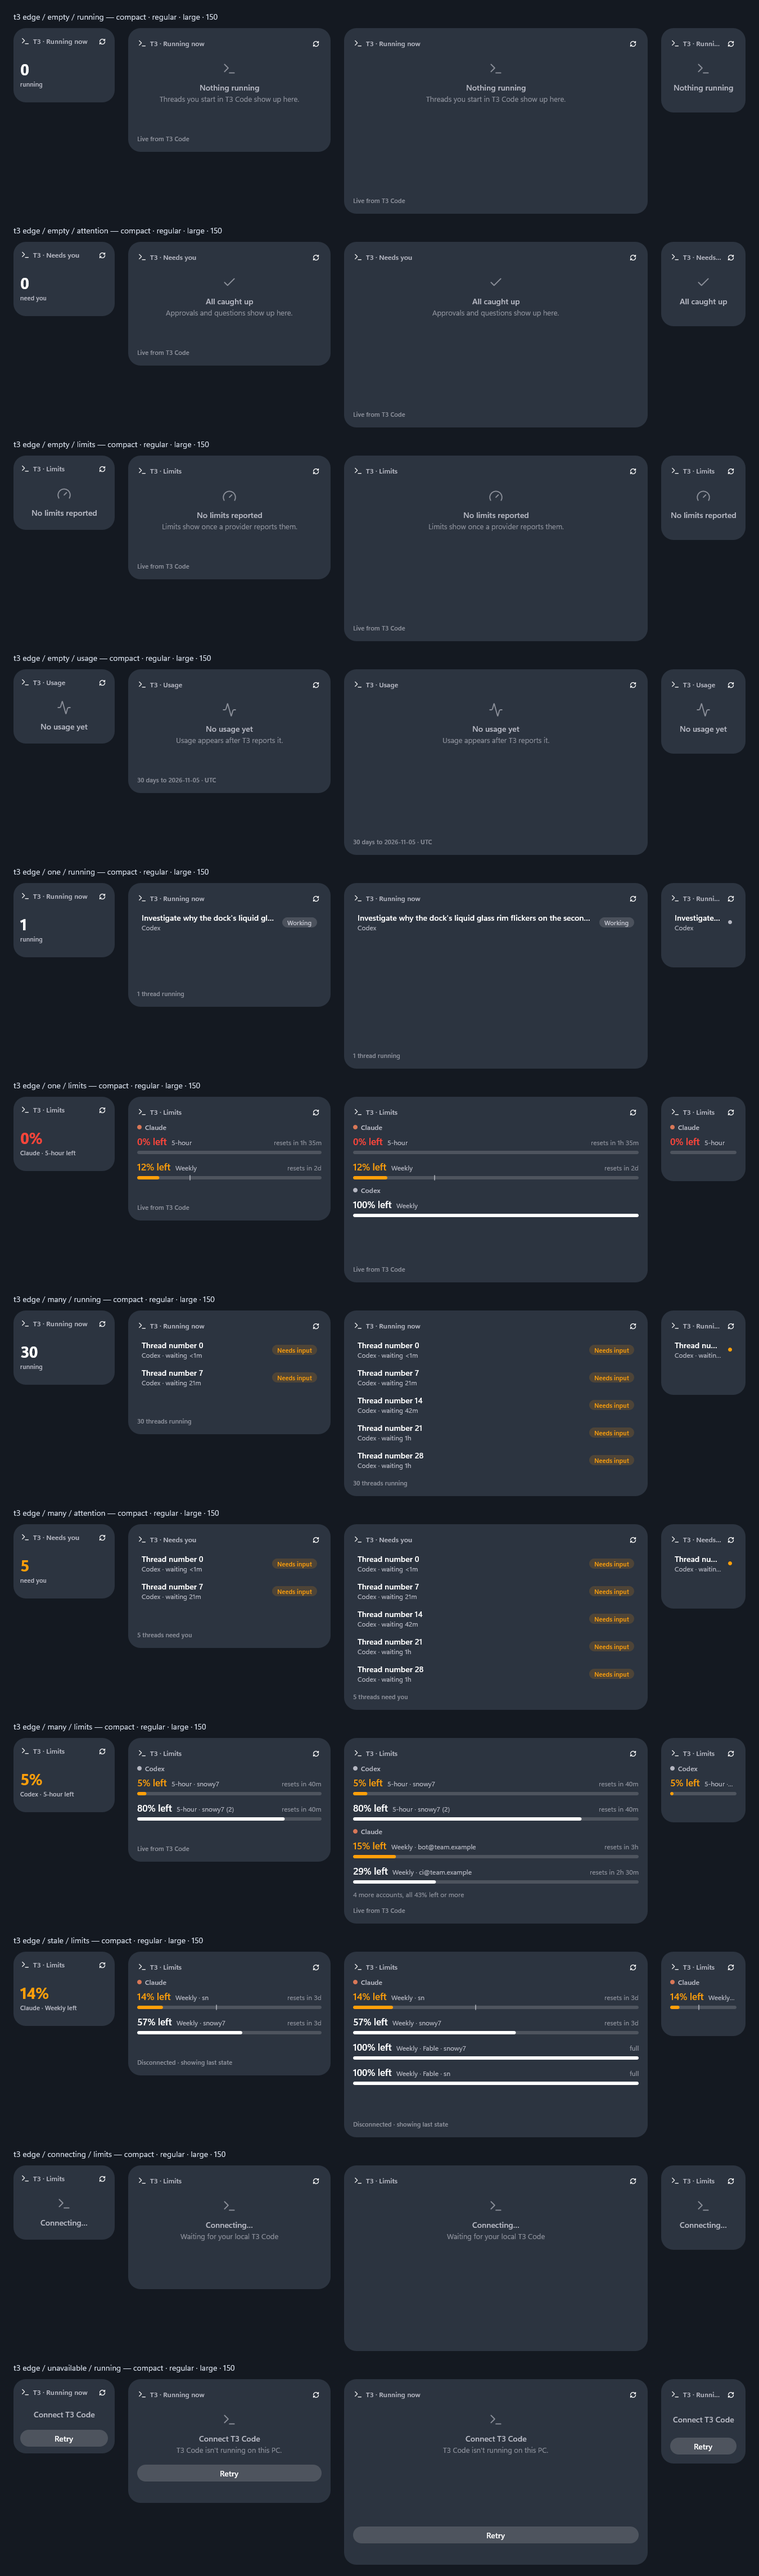
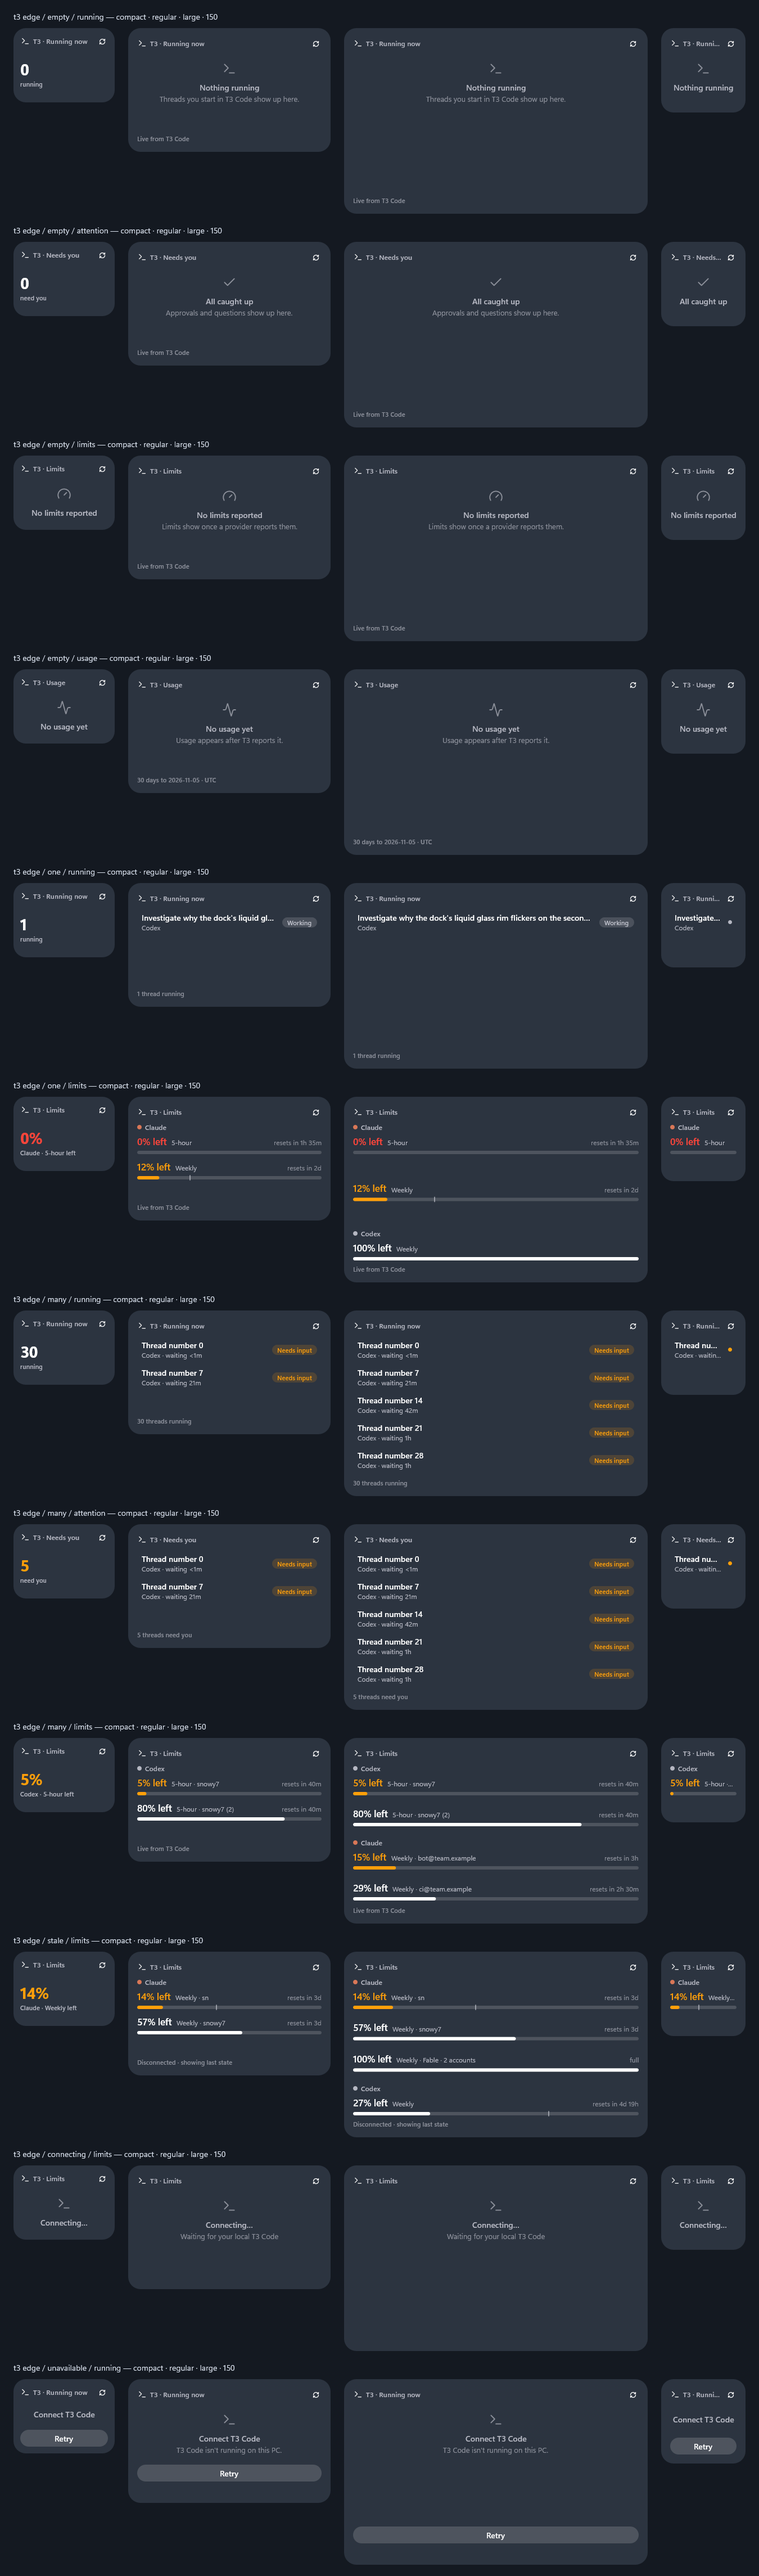
feat(t3): readable model names (claude-opus-5-5 -> Opus 5.5), large Limits spread over the tile, a window every account reads the same collapses to one row

diff --git a/plugins/t3/src/faces.rs b/plugins/t3/src/faces.rs
@@ -87,14 +87,45 @@ fn provider_name(provider: &str) -> &str {
     }
 }
 
+/// A model slug as people say it: `claude-opus-5-5` → `Opus 5.5`, `gpt-6.1-sol` → `GPT-6.1 Sol`.
+/// Names that are already readable (spaces, capitals) pass through.
+fn model_name(slug: &str) -> String {
+    if slug.contains(' ') || slug.chars().any(char::is_uppercase) {
+        return slug.into();
+    }
+    let rest = slug.strip_prefix("claude-").unwrap_or(slug);
+    let mut words: Vec<String> = Vec::new();
+    for part in rest.split('-').filter(|p| !p.is_empty() && !(p.len() >= 8 && p.chars().all(|c| c.is_ascii_digit()))) {
+        match words.last_mut() {
+            // Version digits join with dots: 5-5 → 5.5.
+            Some(last) if part.chars().all(|c| c.is_ascii_digit()) && last.chars().last().is_some_and(|c| c.is_ascii_digit()) => {
+                last.push('.');
+                last.push_str(part);
+            }
+            _ if part == "gpt" => words.push("GPT".into()),
+            _ => {
+                let mut chars = part.chars();
+                words.push(chars.next().map(|c| c.to_uppercase().chain(chars).collect()).unwrap_or_default());
+            }
+        }
+    }
+    // `GPT` and its version read as one word.
+    match words.as_slice() {
+        [first, version, ..] if first == "GPT" && version.starts_with(|c: char| c.is_ascii_digit()) => {
+            format!("GPT-{}", words[1..].join(" "))
+        }
+        _ => words.join(" "),
+    }
+}
+
 /// The quiet second line: model · how long, each part only when T3 knows it.
 fn detail(state: &State, thread: &Thread, agents: usize, now_ms: i64) -> Option<String> {
     let model = state
         .details
         .get(&thread.id)
-        .map(|d| d.model.as_str())
+        .map(|d| model_name(&d.model))
         .filter(|m| !m.is_empty())
-        .or_else(|| Some(provider_name(&thread.provider_instance_id)).filter(|p| !p.is_empty()));
+        .or_else(|| Some(provider_name(&thread.provider_instance_id).to_owned()).filter(|p| !p.is_empty()));
     let time = epoch_ms(&thread.updated_at).map(|at| {
         let span = ago(now_ms, at);
         if thread.attention() {
@@ -106,7 +137,7 @@ fn detail(state: &State, thread: &Thread, agents: usize, now_ms: i64) -> Option<
         }
     });
     let agents = (agents > 0).then(|| plural(agents, "agent"));
-    let parts: Vec<String> = [model.map(str::to_owned), time, agents].into_iter().flatten().collect();
+    let parts: Vec<String> = [model, time, agents].into_iter().flatten().collect();
     (!parts.is_empty()).then(|| parts.join(" · "))
 }
 
@@ -374,6 +405,11 @@ fn limits(state: &State, size: SizeClass, now_ms: i64) -> View {
         let first = rows.len();
         for (window, accounts) in windows {
             let window = if window.trim().is_empty() { "Limit" } else { window };
+            // Every account at the same reading: one row says it for all of them.
+            if accounts.len() > 1 && accounts.iter().all(|a| a.used_permille == accounts[0].used_permille && a.resets_at == accounts[0].resets_at) {
+                rows.push(meter(accounts[0], format!("{window} · {} accounts", accounts.len()), now_ms));
+                continue;
+            }
             let names = account_names(accounts);
             let mut shown: Vec<(&Limit, String)> = accounts.iter().copied().zip(names).collect();
             // Tightest first when there are several, so a summary hides only the roomy ones.
@@ -395,6 +431,12 @@ fn limits(state: &State, size: SizeClass, now_ms: i64) -> View {
         // The header travels with its first row: a short tile never ends on a bare name.
         let lead = rows.remove(first);
         rows.insert(first, View::Stack { children: vec![header, lead], gap: Some(6.0) });
+    }
+    // Large tiles spread the meters over their height (macOS's large widgets) instead of
+    // leaving the bottom empty; the spacers shrink to nothing when the rows fill it.
+    if size == SizeClass::Large && rows.len() > 2 {
+        rows = rows.into_iter().flat_map(|row| [row, View::Spacer]).collect();
+        rows.pop();
     }
     View::List { children: rows, gap: Some(10.0) }
 }
@@ -519,4 +561,17 @@ fn composer(state: &State, size: SizeClass, pick: &Pick) -> View {
     }
     children.push(View::Spacer);
     View::Stack { children, gap: Some(8.0) }
+}
+
+#[test]
+fn model_slugs_read_as_names() {
+    for (slug, name) in [
+        ("claude-opus-5-5", "Opus 5.5"),
+        ("claude-sonnet-5-5-20260101", "Sonnet 5.5"),
+        ("gpt-6.1-sol", "GPT-6.1 Sol"),
+        ("GPT-6.1 Sol", "GPT-6.1 Sol"),
+        ("o3", "O3"),
+    ] {
+        assert_eq!(model_name(slug), name);
+    }
 }
